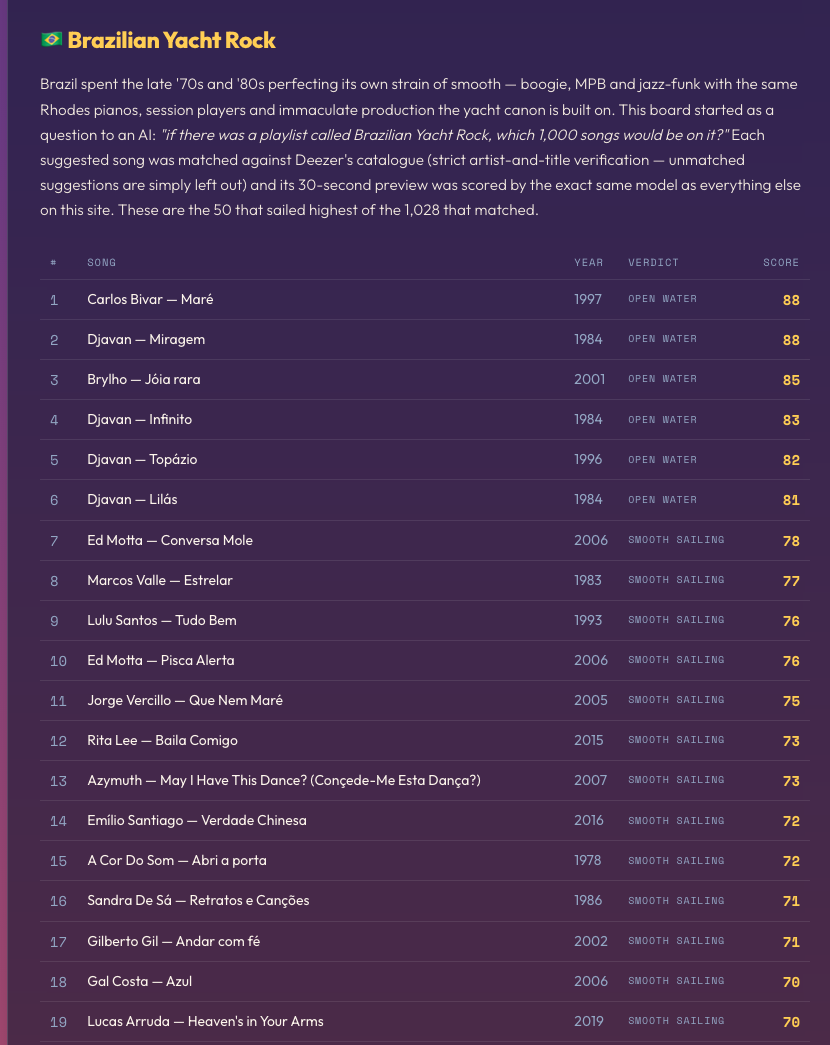
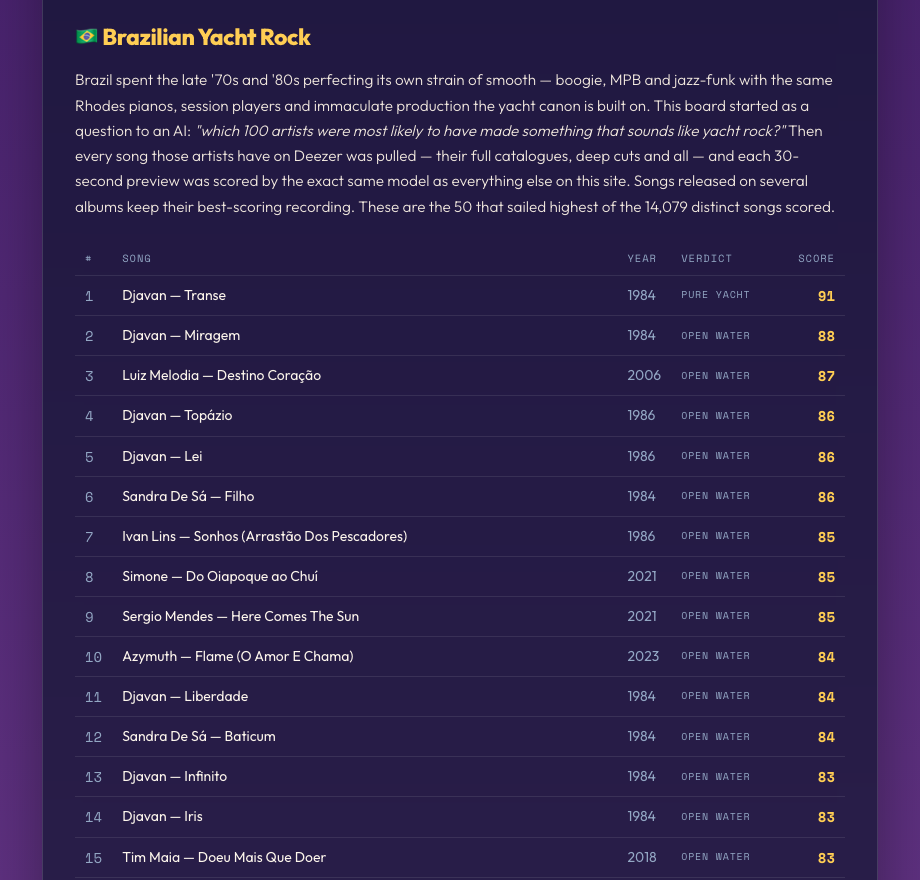
Rewrite Brazilian Yacht Rock post for the 14,079-song analysis
Update the post to the new methodology (100 AI-suggested artists,
full Deezer catalogues, 21,418 recordings deduplicated to 14,079
songs), with five new plots, a fresh leaderboard screenshot, new
findings, and a new Zenodo version DOI (10.5281/zenodo.21541867).

diff --git a/blog-brazilian-yacht-rock.html b/blog-brazilian-yacht-rock.html
@@ -13,7 +13,7 @@
   <meta charset="utf-8">
   <meta name="viewport" content="width=device-width, initial-scale=1, shrink-to-fit=no">
   <title>The Brazilian Yacht Rock Leaderboard — Felipe Maia Polo</title>
-  <meta name="description" content="An AI imagined a Brazilian Yacht Rock playlist; my model scored all 1,028 songs. Here is what won, and what the data shows.">
+  <meta name="description" content="I scored 14,079 songs by 100 AI-suggested Brazilian artists with my yacht rock model. Here is who won, and what the data shows.">
 
   <link rel="preconnect" href="https://fonts.googleapis.com">
   <link rel="preconnect" href="https://fonts.gstatic.com" crossorigin>
@@ -47,55 +47,75 @@
   <article class="post">
     <a class="back" href="blog.html">← All posts</a>
     <h1 class="post-title">The Brazilian Yacht Rock Leaderboard</h1>
-    <p class="post-meta">Published <time datetime="2026-07-22T22:58:00-04:00">July 22, 2026 · 10:58 PM EDT</time> · by Felipe Maia Polo</p>
+    <p class="post-meta">Published <time datetime="2026-07-22T22:58:00-04:00">July 22, 2026</time> · Updated <time datetime="2026-07-24T19:50:00-04:00">July 24, 2026</time> · by Felipe Maia Polo</p>
 
-    <p class="lead">Brazil spent the late '70s and '80s perfecting its own kind of smooth. Boogie, MPB, and jazz-funk records built on the same Rhodes pianos, session players, and immaculate production that the yacht rock canon is made of. As a Brazilian who <a href="blog-yachtness-score.html">built a yacht rock detector</a>, I had to know: how yachty is Brazilian music, really?</p>
+    <p class="lead">Brazil spent the late '70s and '80s perfecting its own kind of smooth. Boogie, MPB, and jazz-funk records built on the same Rhodes pianos, session players, and immaculate production the yacht rock canon is made of. As a Brazilian who <a href="blog-yachtness-score.html">built a yacht rock detector</a>, I had to know: how yachty is Brazilian music, really? So I scored 14,079 songs to find out.</p>
 
     <h2>The experiment</h2>
-    <p>I started with a question to a large language model: if there were a Spotify playlist called Brazilian Yacht Rock, which 1,000 songs would be on it? It came back with 1,177 candidates, each tagged with its own invented genre label. "Core Boogie," "Smooth MPB," "Soul Suave," and so on. Honestly, a pretty good taxonomy.</p>
-    <p>I matched those candidates against Deezer's catalogue with strict artist and title verification, dropping anything fuzzy rather than risking a wrong match. That left 1,028 songs, 87% of the list, each with a real 30-second preview. Then every one of them went through the exact same model that powers Yachtness Score. No special treatment for being Brazilian. The top 50 are now a permanent section on the <a href="https://yachtness.org/leaderboard">leaderboard</a>.</p>
-    <p>So the division of labor was simple: the AI curated the candidates, and the model judged them.</p>
+    <p>I started by asking a large language model a simple question: which 100 Brazilian artists were most likely to have made something that sounds like yacht rock? Then, instead of trusting anyone's picks about individual songs, I pulled everything those artists have on Deezer. Full catalogues, deep cuts, live albums, remixes, everything. That came to 21,418 recordings, which collapse to 14,079 distinct songs once you account for the same song appearing on multiple releases. Each song keeps its best-scoring recording, and its year is the earliest release I could find, so a 1984 song reissued in 2014 counts as 1984.</p>
+    <p>Every preview then went through the exact same model that powers <a href="https://yachtness.org">Yachtness Score</a>. No special treatment for being Brazilian. The top 50 now live on the site's <a href="https://yachtness.org/leaderboard">leaderboard</a>, and the top 100 are in a Spotify playlist at the end of this post.</p>
+    <p>The division of labor matters here: the language model only chose whose catalogues to search. Every judgment about every individual song came from the audio model listening to it.</p>
 
     <figure>
-      <img src="images/blog/brazilian_leaderboard.png" alt="The Brazilian Yacht Rock leaderboard, showing Carlos Bivar's 'Maré' and Djavan's 'Miragem' tied at the top with a score of 88.">
-      <figcaption>The top of the board. Carlos Bivar's "Maré" and Djavan's "Miragem" tie for first at 88.</figcaption>
+      <img src="images/blog/brazilian_leaderboard.png" alt="The Brazilian Yacht Rock section of the leaderboard, with Djavan's 'Transe' first at 91 followed by 'Miragem' at 88.">
+      <figcaption>The top of the board. "Transe" leads at 91, with Djavan holding five of the top thirteen spots.</figcaption>
     </figure>
 
-    <h2>Who won</h2>
-    <p>Two songs tie for first at 88: "Maré" by Carlos Bivar, a gorgeous obscurity, and "Miragem" by Djavan, which is not obscure at all if you grew up in Brazil. And then Djavan just keeps going. He has four of the top six ("Miragem," "Infinito," "Topázio," "Lilás") and eight of the top 50, more than any other artist. I went in expecting him to do well and he still beat my expectations. If yacht rock has a Brazilian Michael McDonald, the data says it is Djavan.</p>
-    <p>Behind him, Ed Motta and Lucas Arruda have four top-50 songs each, and Banda Black Rio has three. Marcos Valle is there too, and his "Estrelar" (77) deserves a special mention that I will get to.</p>
-    <p>Only five songs in the whole set had actually been rated by the Yacht or Nyacht? hosts, so for those five the board shows their cross-validated scores: "Estrelar" at 77, Biafra's "Leão Ferido" at 52, Rita Lee's "Lança Perfume" at 51, Guilherme Arantes's "Deixa Chover" at 41, and Gilberto Gil's "Palco" at 37. Everything else was scored live by the model.</p>
-
-    <h2>Most of the list is not yacht, and that is fine</h2>
-    <p>The AI was asked for songs that could plausibly belong on a Brazilian yacht rock playlist, and it cast a wide net. The model, actually listening to the audio, was much stricter. The median score is 18. More than half the songs (57%) score 20 or below, and only 19 songs out of 1,028 clear 70. This is not a playlist of yacht rock. It is a large pile of candidates with a thin, genuinely smooth layer floating on top.</p>
+    <h2>Djavan won, and it is not close</h2>
+    <p>The new champion is "Transe" at 91, from Djavan's 1984 album <em>Lilás</em>. To put that number in context, 91 does not just win the Brazilian board. It puts "Transe" on the site's global top-50 list, sandwiched between David Roberts and Toto, surrounded by the American canon the model was trained to recognize. A Brazilian song sits comfortably among the yachtiest recordings the model has ever heard.</p>
+    <p>And Djavan does not stop there. He has seven of the top 20: "Transe," "Miragem" (88), "Topázio," "Lei," "Liberdade," "Infinito," and "Iris," almost all from his 1984 to 1986 run. <em>Lilás</em> itself averages 77.6 across its nine tracks, the highest album mean in the entire pool, which makes it a serious candidate for the yachtiest Brazilian album ever recorded. If Brazil has a Michael McDonald, the data keeps insisting it is Djavan.</p>
+    <p>The rest of the top 20 has its own surprises. Luiz Melodia, an artist better known for raw soulful MPB, lands third with "Destino Coração" (87), a 2006 recording. Sandra De Sá's "Filho" (86) and Ivan Lins's "Sonhos (Arrastão Dos Pescadores)" (85) hold up the 1980s end, while Azymuth shows up with a song from 2023. Smooth did not end with the decade.</p>
 
     <figure>
-      <img src="images/blog/hist.png" alt="Histogram of yachtness scores for the 1,028 Brazilian songs, heavily concentrated below 25 with a long thin tail toward 100.">
-      <figcaption>Scores for all 1,028 songs. The median is 18. The yacht is the tail.</figcaption>
+      <img src="images/blog/4_top20_songs.png" alt="Bar chart of the 20 yachtiest Brazilian songs, led by Djavan's 'Transe' at 91 and 'Miragem' at 88.">
+      <figcaption>The 20 yachtiest songs in the pool, using each song's best-scoring recording and earliest release year.</figcaption>
     </figure>
 
-    <h2>The boogie era hump is real</h2>
-    <p>Yacht rock is supposed to be a 1976 to 1984 phenomenon, so I checked whether the model hears an era effect in the Brazilian data too. It does, loudly. Songs released between 1977 and 1987 have a median score of 33. Songs from before 1977 have a median of 8, and everything after the '80s sits in the high teens. The window when Brazilian studios went all in on boogie and polished MPB is exactly the window the model finds smoothest.</p>
-    <p>But here is the twist: the median release year <em>inside the top 50</em> is 2005. That is because artists like Ed Motta and Lucas Arruda kept making, and still make, records with that exact production style, and the model cannot tell 2015 boogie revival from 1982 boogie. The era ended. The sound never did.</p>
-
-    <h2>Does the AI's taxonomy match the model's ears?</h2>
-    <p>More than I expected. If you group the songs by the genre label the language model invented and look at what the audio model thought of each group, the ordering is remarkably sensible. "Core Boogie" has the highest median at 35, the smooth and jazz-funk categories cluster in the middle, and the acoustic and aggressive buckets (Rap/Funk, Tropicália, Honorary Bossa) sink to the bottom with medians under 10. Two models that never exchanged a word, one reading text and one hearing audio, and they broadly agree on which styles are smooth.</p>
-    <p>One nuance: although Core Boogie has the highest median, the category that put the most songs in the top 50 is actually Smooth MPB, with 17. It is a much bigger bucket, so even a lower hit rate produces more hits. Djavan alone does a lot of that work.</p>
+    <h2>Most of Brazil is not on the boat</h2>
+    <p>Now the sobering part. This pool was picked to be as yachty as possible, 100 artists nominated precisely because they might have made something smooth. The model still rejected almost all of it. The median score is 19. Only 1,115 songs out of 14,079, about 7.9%, cross the yacht line at 50, and a mere 189 songs, 1.3%, reach 70 or higher.</p>
+    <p>I find this genuinely informative about the genre. Even inside catalogues chosen for smoothness, actual yacht rock is rare. It is a narrow, specific sound: a particular era of studio practice, a particular kind of chord voicing and mix polish, and most of what even smooth-adjacent artists recorded does not have it.</p>
 
     <figure>
-      <img src="images/blog/by_category.png" alt="Strip plot of yachtness score by the AI's playlist category, with Core Boogie highest and Rap/Funk BR lowest.">
-      <figcaption>Score by the AI's own genre label (black bar = category median). Boogie floats, acoustic sinks.</figcaption>
+      <img src="images/blog/1_score_distribution.png" alt="Histogram of scores for 14,079 songs, heavily right-skewed with median 19 and only 7.9% crossing the yacht line at 50.">
+      <figcaption>Scores for all 14,079 distinct songs. Most of the fleet never leaves the harbor.</figcaption>
+    </figure>
+
+    <h2>Smooth peaked exactly when you think it did</h2>
+    <p>The model never sees a release date. It only hears audio. And yet, when you group songs by year, it independently rediscovers the golden age: scores climb through the late '70s, peak in the 1980 to 1984 bucket at a median of 34, nearly double the all-time median, and slide back down through the '90s. The window when Brazilian studios went all in on boogie and polished MPB production is exactly the window the model finds smoothest.</p>
+    <p>Two smaller things I checked along the way. First, the median never returns to its '80s peak, but it also never collapses; from the 2000s on it sits around 19, kept afloat by revivalists like Ed Motta and by veterans who never stopped recording that way. Second, song length has nothing to do with it: the correlation between duration and score is 0.03, which is to say zero. Smoothness is not length.</p>
+
+    <figure>
+      <img src="images/blog/2_score_by_year.png" alt="Median yachtness score by release year with interquartile band, rising to a peak of 34 in the early 1980s and declining after.">
+      <figcaption>Median score by earliest release year. The model finds the boogie era on its own.</figcaption>
+    </figure>
+
+    <h2>The consistency crown goes somewhere unexpected</h2>
+    <p>Ranking artists by their median song score, among artists with at least 40 scored songs, produces a genuine surprise at the top: Trio Caiowás, a vintage vocal-harmony group, with a median of 44 across 46 songs. Sandra De Sá and Claudio Zoli follow at 40, and Carlos Dafé at 36.</p>
+    <p>Djavan, the artist who owns the top of the song list, has a median of just 29. That is the interesting part. He has the highest peaks in the pool and a deep, varied catalogue of 274 songs that spans way beyond boogie. Peak yachtiness and consistent yachtiness are different crowns, and they belong to different heads. Sandra De Sá comes closest to wearing both: a median of 40 across 149 songs, plus 14 songs in the top 100, more than anyone else.</p>
+    <p>One honest caveat on Trio Caiowás: 46 songs of vintage vocal-harmony material is a very specific diet, and their high median may partly reflect the model being charmed by one production style rather than a catalogue full of yacht. I am flagging it rather than hiding it, because it is exactly the kind of quirk a rough detector produces.</p>
+
+    <figure>
+      <img src="images/blog/3_artist_league.png" alt="Artist league table showing median score and interquartile range for artists with at least 40 songs, led by Trio Caiowás at 44.">
+      <figcaption>The artist league: dot is the median, bar is the middle 50% of each artist's songs.</figcaption>
+    </figure>
+
+    <h2>Who owns the top 100</h2>
+    <p>Zooming out from single songs to the playlist as a whole, three artists supply more than a third of it: Sandra De Sá with 14 songs, and Djavan and Gal Costa with 11 each. Gal Costa is a fun case, because she is not remembered as a boogie artist at all, but a 427-song catalogue recorded across six decades leaves plenty of room for smooth moments, including recent live recordings the model rates highly. After the big three, Ivan Lins contributes five, and the remaining 26 artists share 35 songs among them.</p>
+
+    <figure>
+      <img src="images/blog/5_top100_composition.png" alt="Bar chart of songs per artist in the top-100 playlist: Sandra De Sá 14, Djavan 11, Gal Costa 11, then a long tail of 26 artists with 35 songs.">
+      <figcaption>The top-100 playlist by artist. Three names fill a third of the boat.</figcaption>
     </figure>
 
     <h2>A reminder that this measures sound, not quality</h2>
-    <p>Caetano Veloso's "Sampa" is one of the most beloved songs ever written about a Brazilian city. It scores a 3. That is not the model being wrong. It is acoustic MPB, a voice and a guitar, and the yacht canon is Rhodes, reverb, and a full session band. A low score means "does not sound like the target," never "is not good." If anything, "Sampa" scoring 3 is proof the model is doing its job.</p>
+    <p>The driest artists in the pool are a useful sanity check. Dom Um Romão, the percussion legend, has a median of 8. Victor Biglione's jazz fusion sits at 10. Jorge Ben Jor, one of the most beloved and influential artists Brazil has ever produced, has a median of 12 across 276 songs. None of this is the model calling anyone bad. Percussion-forward fusion and samba-rock guitar simply do not sound like Rhodes-and-reverb studio pop, and the model only ever answers one question: does this sound like the target? A low score means no. It never means "not good."</p>
 
     <div class="note">
-      Two models, one playlist. A language model that knew Brazilian music well enough to nominate the right songs, and an audio model that judged how they actually sound. Where they agree you get "Estrelar." Where they disagree, you learn something about both.
+      Two models, one fleet. A language model picked which harbors to search, and an audio model judged every boat it found. The language model knew where yacht might live. Only the audio model could tell whether it actually did.
     </div>
 
     <h2>Listen for yourself</h2>
-    <p>Numbers are nice, but this is music. I put the winners into a Spotify playlist so you can judge the model with your own ears:</p>
+    <p>Numbers are nice, but this is music. The top 100 songs are in the playlist below, so you can judge the model with your own ears:</p>
 
     <div class="embed-card">
       <iframe data-testid="embed-iframe" src="https://open.spotify.com/embed/playlist/62HCTkQz8WqSJqGUWsxAaU?utm_source=generator&theme=0&si=47a3349db6c345a9" width="100%" height="352" frameBorder="0" allowfullscreen="" allow="autoplay; clipboard-write; encrypted-media; fullscreen; picture-in-picture" loading="lazy" title="Brazilian Yacht Rock playlist on Spotify"></iframe>
@@ -111,12 +131,12 @@
   title  = {The Brazilian Yacht Rock Leaderboard},
   year   = {2026},
   month  = {July},
-  doi    = {10.5281/zenodo.21502654},
+  doi    = {10.5281/zenodo.21541867},
   url    = {https://felipemaiapolo.github.io/blog-brazilian-yacht-rock.html}
 }</code></pre>
-    <p>An archived copy of this post lives at <a href="https://doi.org/10.5281/zenodo.21502654">doi.org/10.5281/zenodo.21502654</a>.</p>
+    <p>An archived copy of this post lives at <a href="https://doi.org/10.5281/zenodo.21541867">doi.org/10.5281/zenodo.21541867</a>.</p>
 
-    <p class="disclaimer">Yachtness Score is an unaffiliated hobby project. Song ratings belong to the hosts of <a href="https://www.yachtornyacht.com/">Yacht or Nyacht?</a>; the candidate list was generated by a language model and matched against Deezer's catalogue.</p>
+    <p class="disclaimer">Yachtness Score is an unaffiliated hobby project. Song ratings belong to the hosts of <a href="https://www.yachtornyacht.com/">Yacht or Nyacht?</a>; the artist pool was suggested by a language model, and audio comes from Deezer's 30-second previews.</p>
   </article>
 
   <footer>

diff --git a/blog.html b/blog.html
@@ -51,8 +51,8 @@
     <ul class="post-list">
       <li class="post-card">
         <h2><a href="blog-brazilian-yacht-rock.html">The Brazilian Yacht Rock Leaderboard</a></h2>
-        <div class="date">July 22, 2026</div>
-        <p class="teaser">I asked an AI to dream up a 1,000-song Brazilian Yacht Rock playlist, then let my model judge every song. Djavan won, and acoustic MPB sank.</p>
+        <div class="date">July 22, 2026 · updated July 24</div>
+        <p class="teaser">An AI named 100 Brazilian artists, my model scored their entire catalogues: 14,079 songs. Djavan won, the '80s peaked on cue, and most of Brazil stayed on shore.</p>
       </li>
       <li class="post-card">
         <h2><a href="blog-yachtness-score.html">Yachtness Score</a></h2>
